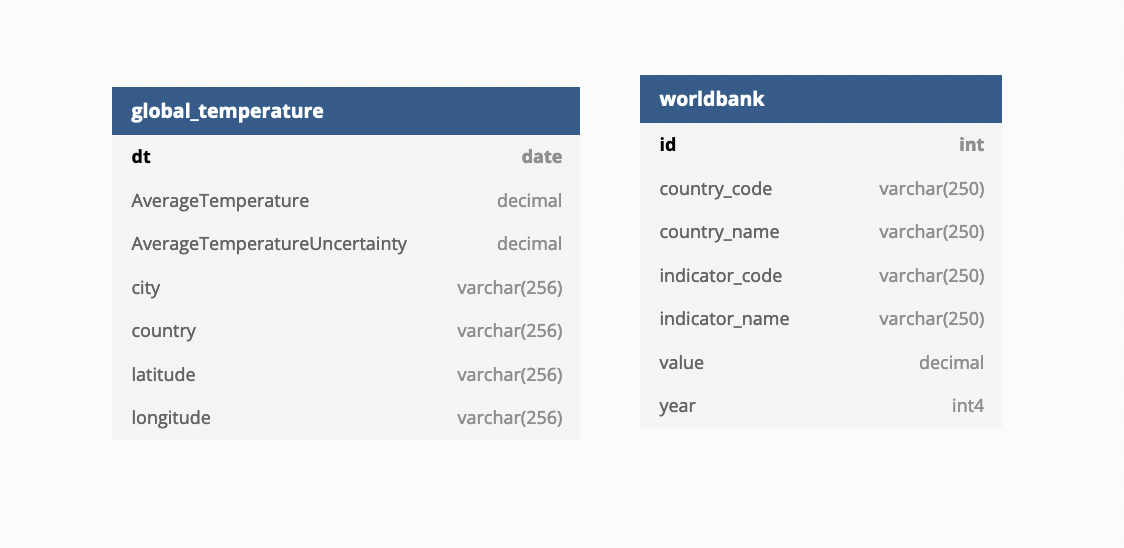
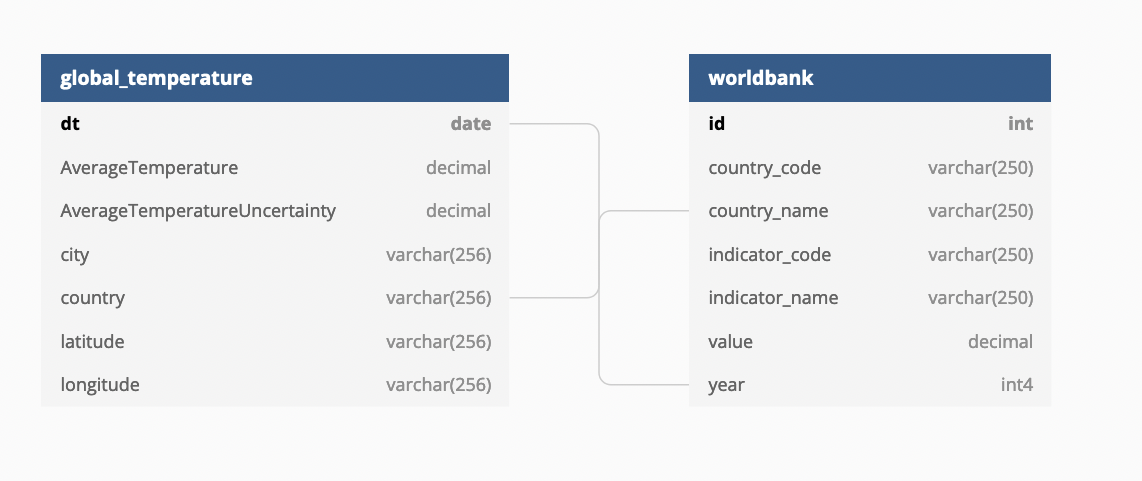
Revise query example and update relation between tables

diff --git a/capstone-project/README.md b/capstone-project/README.md
@@ -33,7 +33,7 @@ JOIN
   worldbank w
 ON
   EXTRACT(YEAR FROM g.dt) = g.year
-  AND g.country = w.country
+  AND g.country = w.country_name
 WHERE
   g.country = "Thailand"
 GROUP BY
